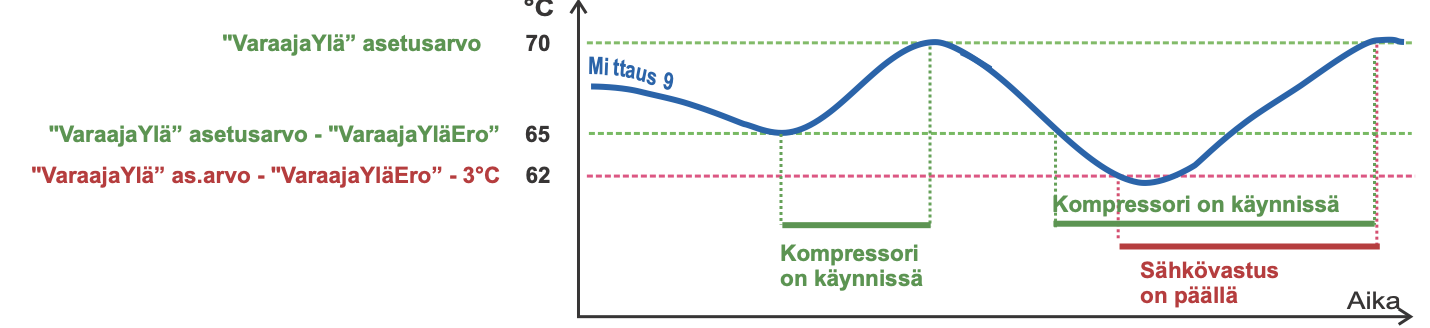
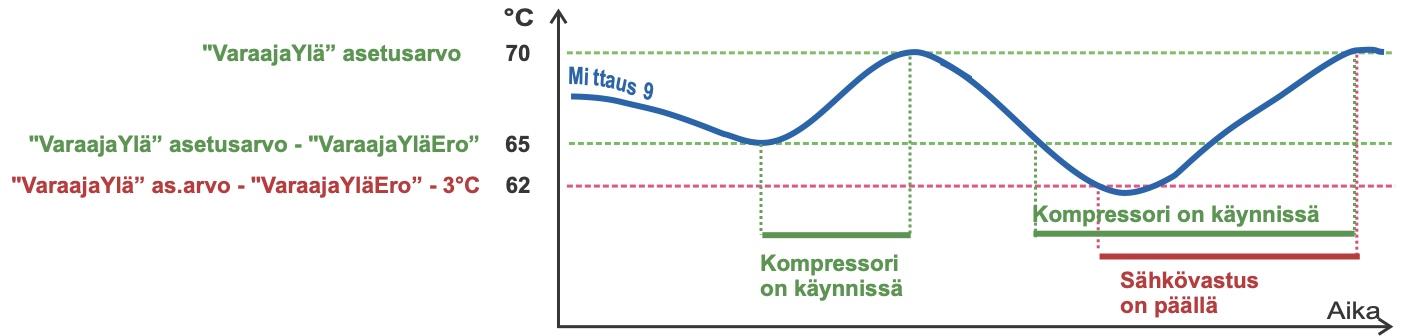
Re-crop the p. 22 figures that clipped at their edges
Cropped again from a scale-3 render with the procedure's sips step.
Esimerkki 1 now keeps the top of °C and the tip of the Aika arrow, and
Esimerkki 2 keeps both arrow tips and the bottom of the vertical
"SV_viiveaika" label. The schematic keeps the dashed L2 valve at its
foot. Its ground loops reach 10 px below the top of the Huom! note under
it, so the crop stops above the note and cuts the loops' lower bends.

The procedure also notes that sips reads --cropOffset 0 0 as no offset
and crops the middle of the image.

Changed region(s): [[0.0, 0.0, 0.9986, 1.0]]

diff --git a/docs/agents/manual-transcription.md b/docs/agents/manual-transcription.md
@@ -40,6 +40,8 @@ Crop every figure, chart and drawing that ADR 0006 says becomes an image, with t
    sips -c <height> <width> --cropOffset <y> <x> .scratch/pages/page-<N>.png --out manuals/<transcription>/s<N>-<name>.png
    ```
 
+   `sips` reads `--cropOffset 0 0` as no offset and crops the middle of the image, so a box at the top-left corner starts at `1 1`.
+
 3. A drawing printed sideways, such as the Asennusohje's p. 20, gets turned upright: `sips -r 90 <file>` turns it 90° clockwise.
 
 ## 4. Write the page
